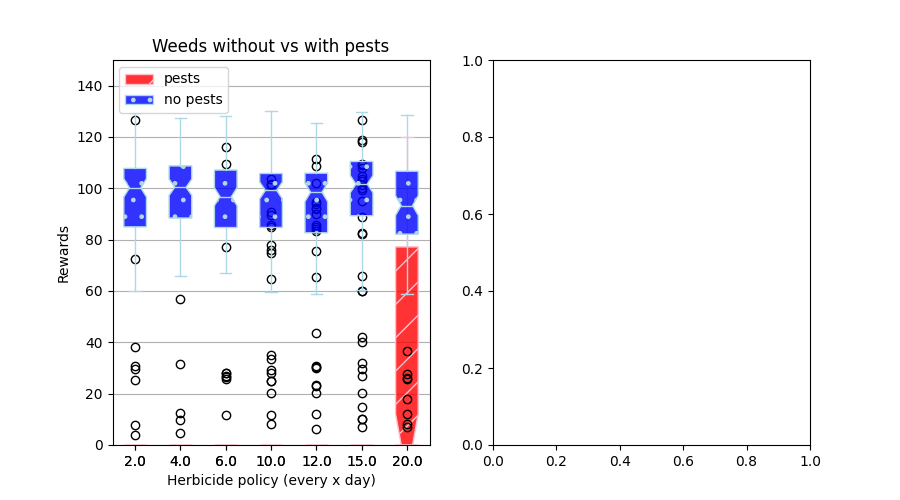
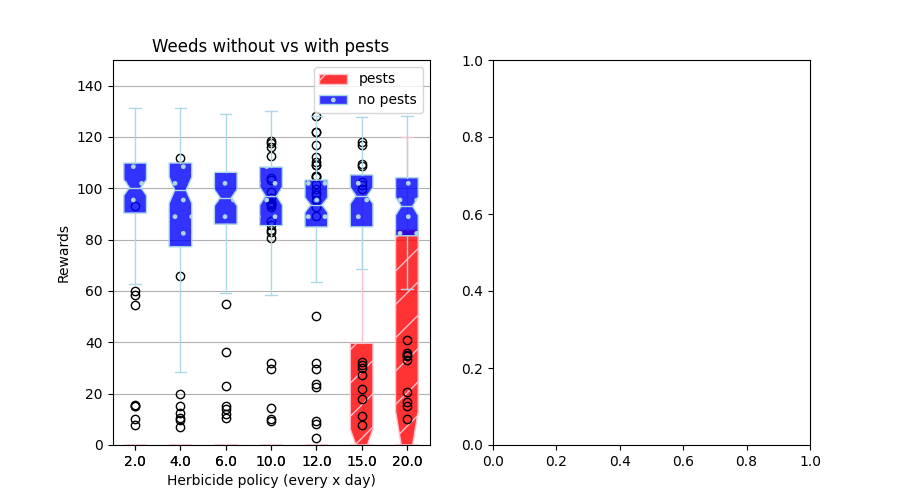
Changed cide policy from bags to kg

diff --git a/farmgym/v2/policy_api.py b/farmgym/v2/policy_api.py
@@ -282,10 +282,10 @@ class Policy_helper:
         assert isinstance(field, int) and isinstance(index, int), "Field, index must be integers."
         assert isinstance(location, tuple), "Location must be a tuple, i.e : (0, 0)."
         # Check if amount is specified in rules :
-        possible_amounts = self.interventions["scatter_bag"].get("amount#bag", [1])
-        if amount not in possible_amounts:
-            amount = possible_amounts[-1]
-            print(f"Specified amount not defined in farm rules, setting default amount ({amount})")
+        # possible_amounts = self.interventions["scatter_bag"].get("amount#bag", [1])
+        # if amount not in possible_amounts:
+        #     amount = possible_amounts[-1]
+        #     print(f"Specified amount not defined in farm rules, setting default amount ({amount})")
         fi, idx, loc = field, index, location
         scatter_conditions = [
             [
@@ -297,7 +297,7 @@ class Policy_helper:
             scatter_conditions[0].append(((f"Field-{fi}", "Weather-0", "day#int365", []), lambda x: x, "==", day))
         scatter_actions = [
             {
-                "action": ("BasicFarmer-0", f"Field-{fi}", "Cide-0", "scatter_bag", {"plot": loc, "amount#bag": amount}),
+                "action": ("BasicFarmer-0", f"Field-{fi}", "Cide-0", "scatter", {"plot": loc, "amount#kg": amount}),
                 "delay": delay,
             }
         ]
@@ -463,23 +463,22 @@ class Policy_helper:
         return policy_put_scarecrow
 
     # Entity policies
-
-    def get_plant_policies(self):
+    def get_plant_policies(self, frequency):
         policies = []
         # Define policy to observe the stage of Plant-0 in Field-0
         policy_plant_observe = self.create_plant_observe()
         policies.append(policy_plant_observe)
         # Define policy to harvest Plant-0 if its stage is 'ripe'
         if "harvest" in self.interventions.keys():
-            policy_harvest_ripe = self.create_harvest_ripe()
+            policy_harvest_ripe = self.create_harvest_ripe(frequency=frequency)
             policies.append(policy_harvest_ripe)
         # Define policy to harvest Plant-0 if its stage is 'fruit'
         if "harvest" in self.interventions.keys():
-            policy_harvest_fruit = self.create_harvest_fruit()
+            policy_harvest_fruit = self.create_harvest_fruit(frequency=frequency)
             policies.append(policy_harvest_fruit)
         return policies
 
-    def get_weeds_policies(self):
+    def get_weeds_policies(self, frequency):
         policies = []
         # Define policy to observe Weeds growth in Field-0
         if "Weeds-0" in self.entities:
@@ -487,50 +486,50 @@ class Policy_helper:
             policies.append(policy_observe_weeds)
         # Define policy to scatter herbicide every few days if number of weeds is greater than a threshold
         if "scatter_bag" in self.interventions.keys() and "Cide-0" in self.entities:
-            policy_scatter_cide = self.create_scatter_cide(amount=5)
+            policy_scatter_cide = self.create_scatter_cide(amount=5,frequency=frequency)
             policies.append(policy_scatter_cide)
         # Define policy to remove herbs every few days if number of weeds is greater than a threshold
         if "remove" in self.interventions.keys():
-            policy_remove_weeds = self.create_remove_weeds()
+            policy_remove_weeds = self.create_remove_weeds(frequency=frequency)
             policies.append(policy_remove_weeds)
         return policies
 
-    def get_soil_policies(self):
+    def get_soil_policies(self, frequency):
         policies = []
         # Define policy to water Soil-0
         if "water_discrete" in self.interventions.keys():
-            policy_water_soil = self.create_water_soil(amount=5)
+            policy_water_soil = self.create_water_soil(amount=5, frequency=frequency)
             policies.append(policy_water_soil)
         return policies
 
-    def get_fertilizer_policies(self):
+    def get_fertilizer_policies(self, frequency):
         policies = []
         # Define policy to scatter Fertilizer-0*
         if "scatter_bag" in self.interventions.keys() and "Fertilizer-0" in self.entities:
-            policy_scatter_fert = self.create_scatter_fert(amount=5)
+            policy_scatter_fert = self.create_scatter_fert(amount=5, frequency=frequency)
             policies.append(policy_scatter_fert)
         return policies
 
-    def get_facility_policies(self):
+    def get_facility_policies(self, frequency):
         policies = []
         # Define policy to put scarecrow
-        policy_put_scarecrow = self.create_put_scarecrow()
+        policy_put_scarecrow = self.create_put_scarecrow(frequency=frequency)
         policies.append(policy_put_scarecrow)
         return policies
 
-    def get_policies(self):
+    def get_policies(self, frequency=1):
         policies = []
         entities = self.entities
         if "Plant-0" in entities:
-            policies += self.get_plant_policies()
+            policies += self.get_plant_policies(frequency=frequency)
         if "Soil-0" in entities:
-            policies += self.get_soil_policies()
+            policies += self.get_soil_policies(frequency=frequency)
         if "Weeds-0" in entities:
-            policies += self.get_weeds_policies()
+            policies += self.get_weeds_policies(frequency=frequency)
         if "Fertilizer-0" in entities:
-            policies += self.get_facility_policies()
+            policies += self.get_facility_policies(frequency=frequency)
         if "Facility-0" in entities:
-            policies += self.get_facility_policies()
+            policies += self.get_facility_policies(frequency=frequency)
         return policies
 
 def run_policy_xp(farm, policy, max_steps=10000):
@@ -550,7 +549,6 @@ def run_policy_xp(farm, policy, max_steps=10000):
         obs_cost = info["observation cost"]
         intervention_schedule = policy.intervention_schedule(observation)
         obs, reward, terminated, truncated, info = farm.farmgym_step(intervention_schedule)        
-        #print(i, intervention_schedule)
         int_cost = info["intervention cost"]
         cumreward += reward
         cumcost += obs_cost + int_cost

diff --git a/farmgym/v2/games/casestudy.py b/farmgym/v2/games/casestudy.py
@@ -137,7 +137,7 @@ def make_policy_herbicide(farm, amount_herbicide, frequency, amount_water):
     observe_plant = helper.create_plant_observe()
     weed_observe = helper.create_weed_observe()
     water_soil = helper.create_water_soil_continious(amount=amount_water, delay=0)
-    scatter_cide = helper.create_scatter_cide(amount=amount_herbicide, frequency=frequency)
+    scatter_cide = helper.create_scatter_cide(amount=amount_herbicide, frequency=frequency, threshold=0)
     harvest_ripe = helper.create_harvest_ripe(delay=1)
     harvest_fruit = helper.create_harvest_fruit(delay=18)
     policies = [observe_plant, weed_observe, water_soil, scatter_cide, harvest_ripe, harvest_fruit]
@@ -187,5 +187,5 @@ def xp_watering():
 farms, policy_parameters, results = xp_watering()
 plot_watering_results(farms, policy_parameters, results, "Watering policy (daily input in L)")
 
-farms, policy_parameters, results = xp_coupling(0.002, 7)
+farms, policy_parameters, results = xp_coupling(0.0015, 5)
 plot_coupling_results(farms, policy_parameters, results, "Herbicide policy (every x day)", "fname")
